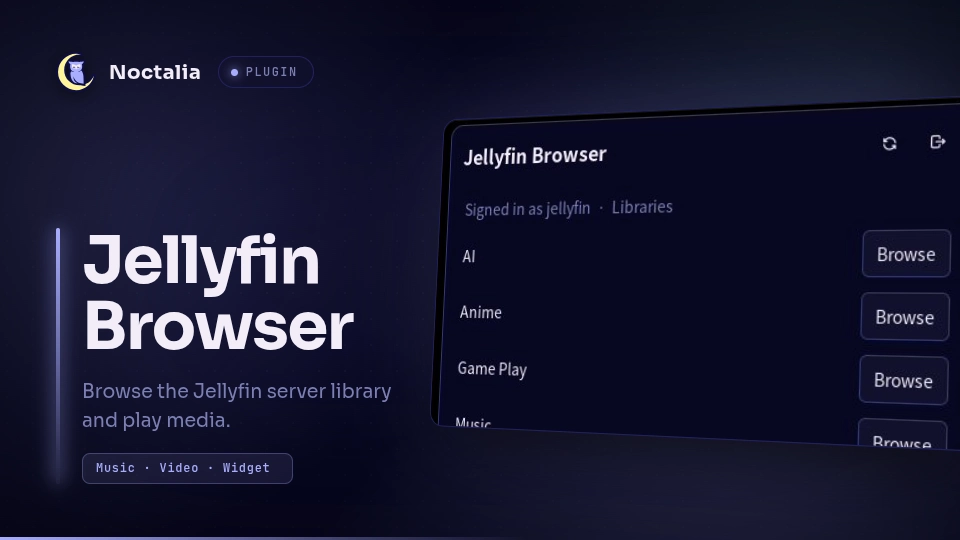
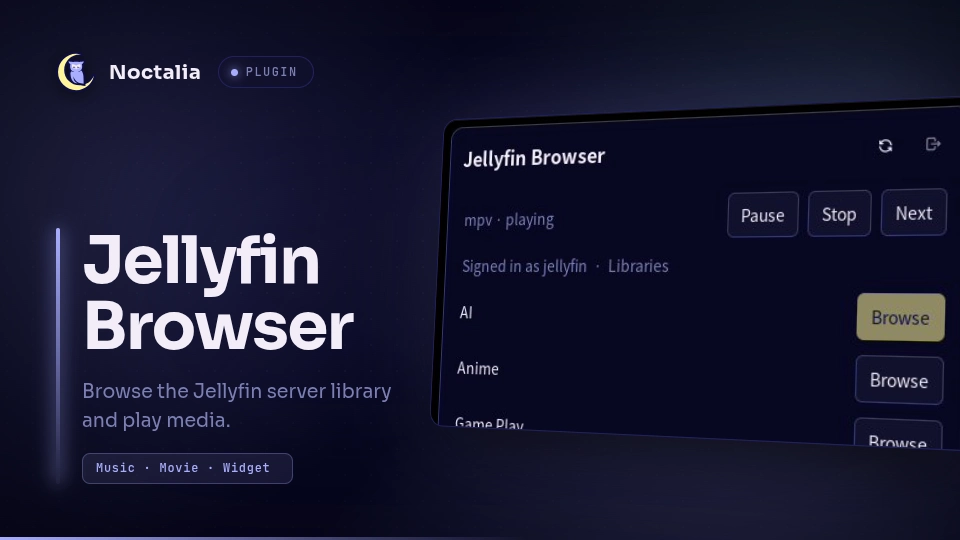
feat: add media control buttons

diff --git a/jellyfin-browser/README.md b/jellyfin-browser/README.md
@@ -11,7 +11,7 @@ This plugin allows you to browse the Jellyfin server library and play media.
 
 ## Requirements
 
-Install `mpv`.
+Install `mpv` and `socat`.
 
 ## Usage
 
@@ -29,6 +29,9 @@ Open a library or folder and select **Play all** to play its playable items
 sequentially in mpv, or **Shuffle** to play them in a shuffled order. These
 actions include all matching items in the current folder, including items on
 pages that have not been loaded in the browser.
+
+Playback reuses a single mpv process. Use the panel's **Pause/Resume**, **Stop**,
+and **Next** controls to control the current playback.
 
 ## Settings
 
